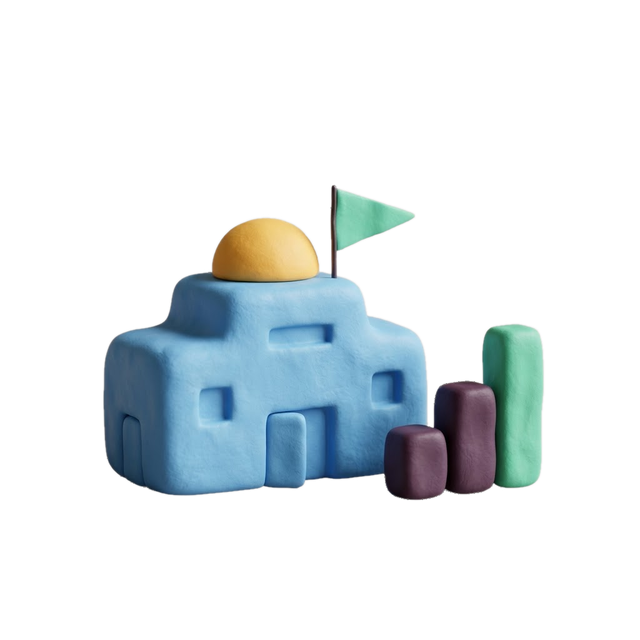
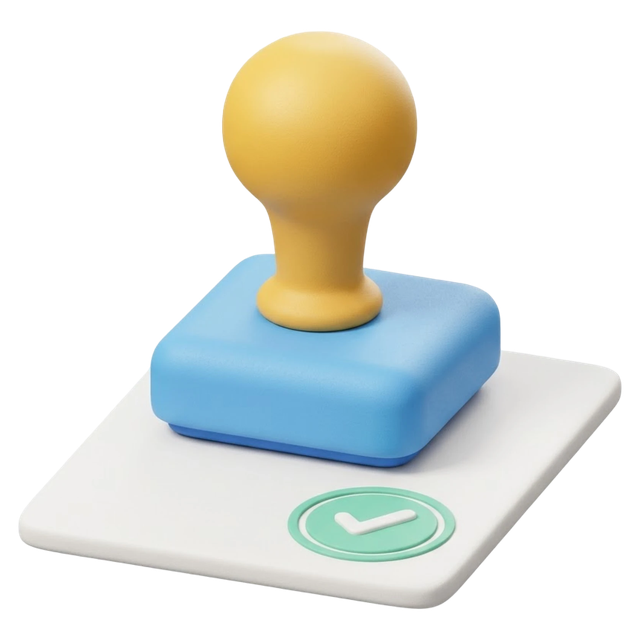
Clay v2: government as an official stamp

diff --git a/docs/CLAY-PROMPTS-V2.md b/docs/CLAY-PROMPTS-V2.md
@@ -365,7 +365,13 @@ off-white = paper, neutral parts.
 > Subject: a small chunky rounded building with four thick columns and a triangular roof on a stepped base, turned about 20°. White columns, a sky blue roof and base (#6CB8F0), a gold door (#FFC94D).
 
 **government**
-> Subject: a small chunky rounded building with a large dome on top, turned about 20°. Mint body (#7FD8B4), a sky blue dome (#6CB8F0), a gold finial (#FFC94D), white windows.
+> Round 1 (2026-10-30): colours right. But the stacked gold finial looks like a swirl of poop, and a round body + dome + finial reads as a cottage or a place of worship, not a civic building.
+>
+> ✅ Stamp installed (2026-10-30).
+>
+> Round 1 note (user): any dome reads as a mosque or temple. No domes, spires or religious shapes for government.
+>
+> Subject: a chunky rounded official rubber stamp, turned about 20°, a round knob handle on a short neck and a thick square stamp base, standing on a white sheet of paper; beside it on the sheet a round stamped mark with a raised check inside. Sky blue base (#6CB8F0), a gold knob (#FFC94D), a white sheet, a mint stamped mark (#7FD8B4) with a white check. No text, no emblem, no building.
 
 **deploy**
 > Subject: a chunky rounded rocket lifting off a small round pad, turned about 20°, a short thick flame below it. Sky blue body (#6CB8F0), a white window, coral fins (#F06A6F), a gold flame (#FFC94D).
